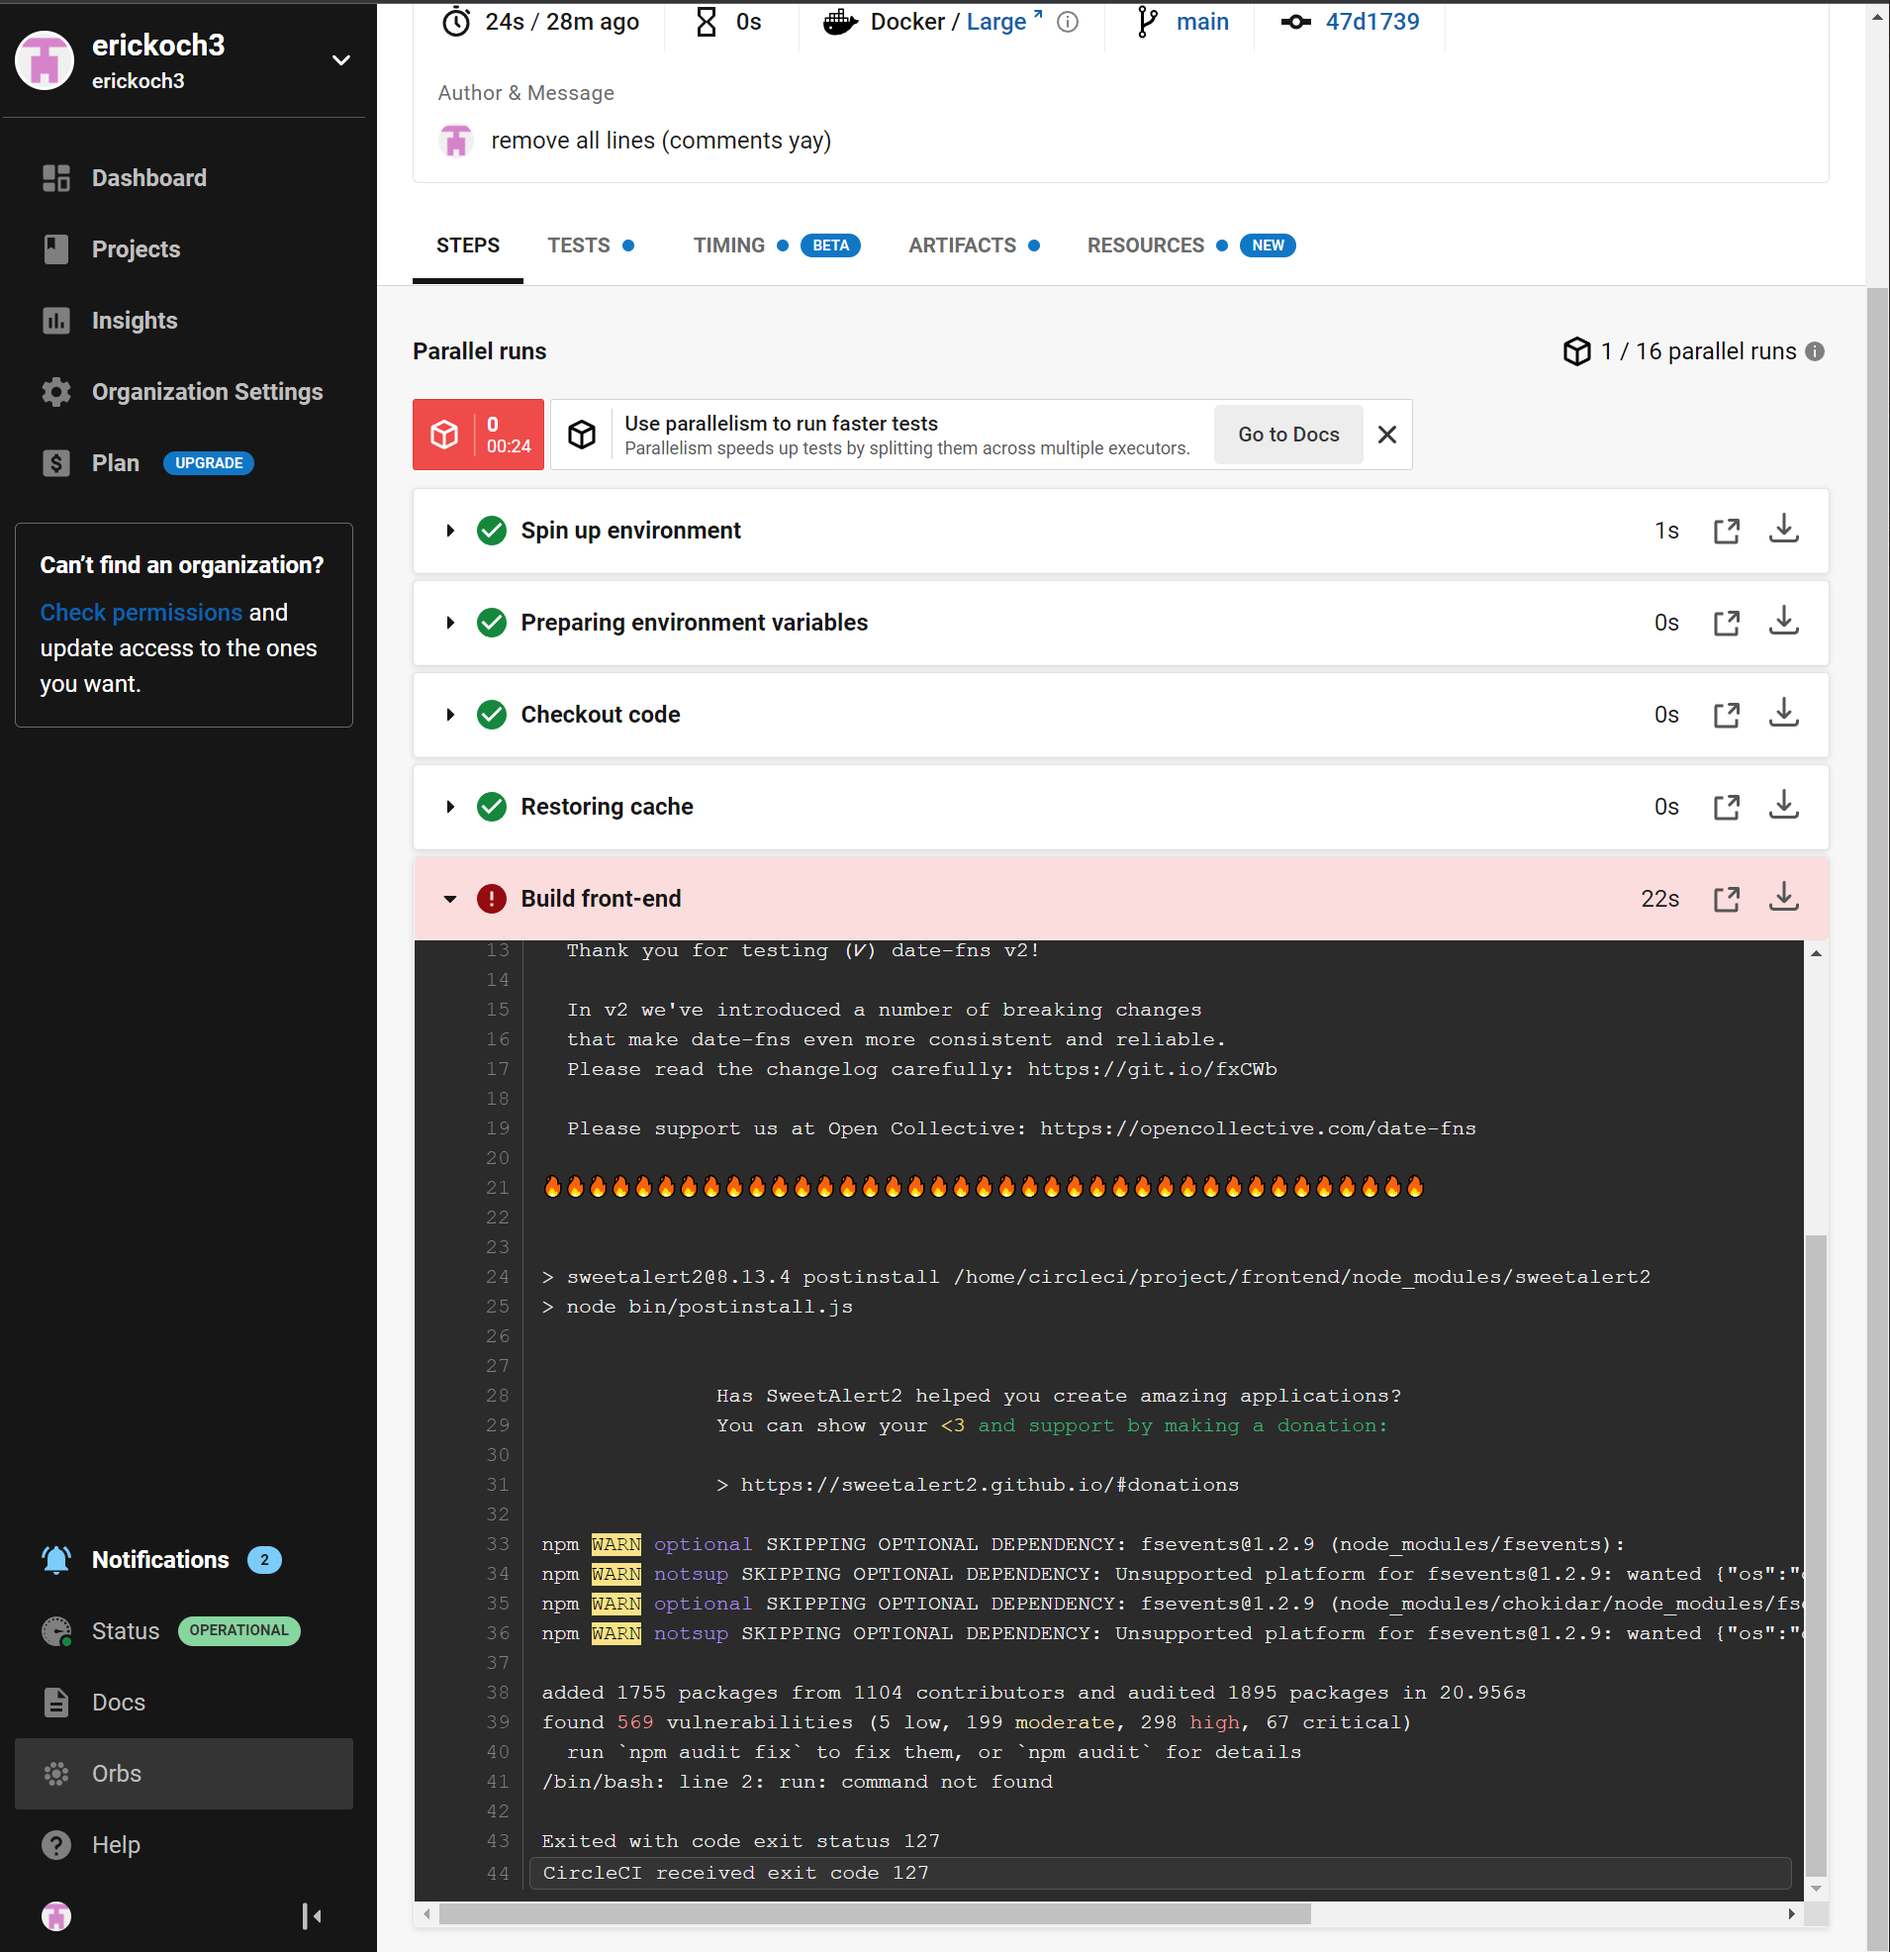
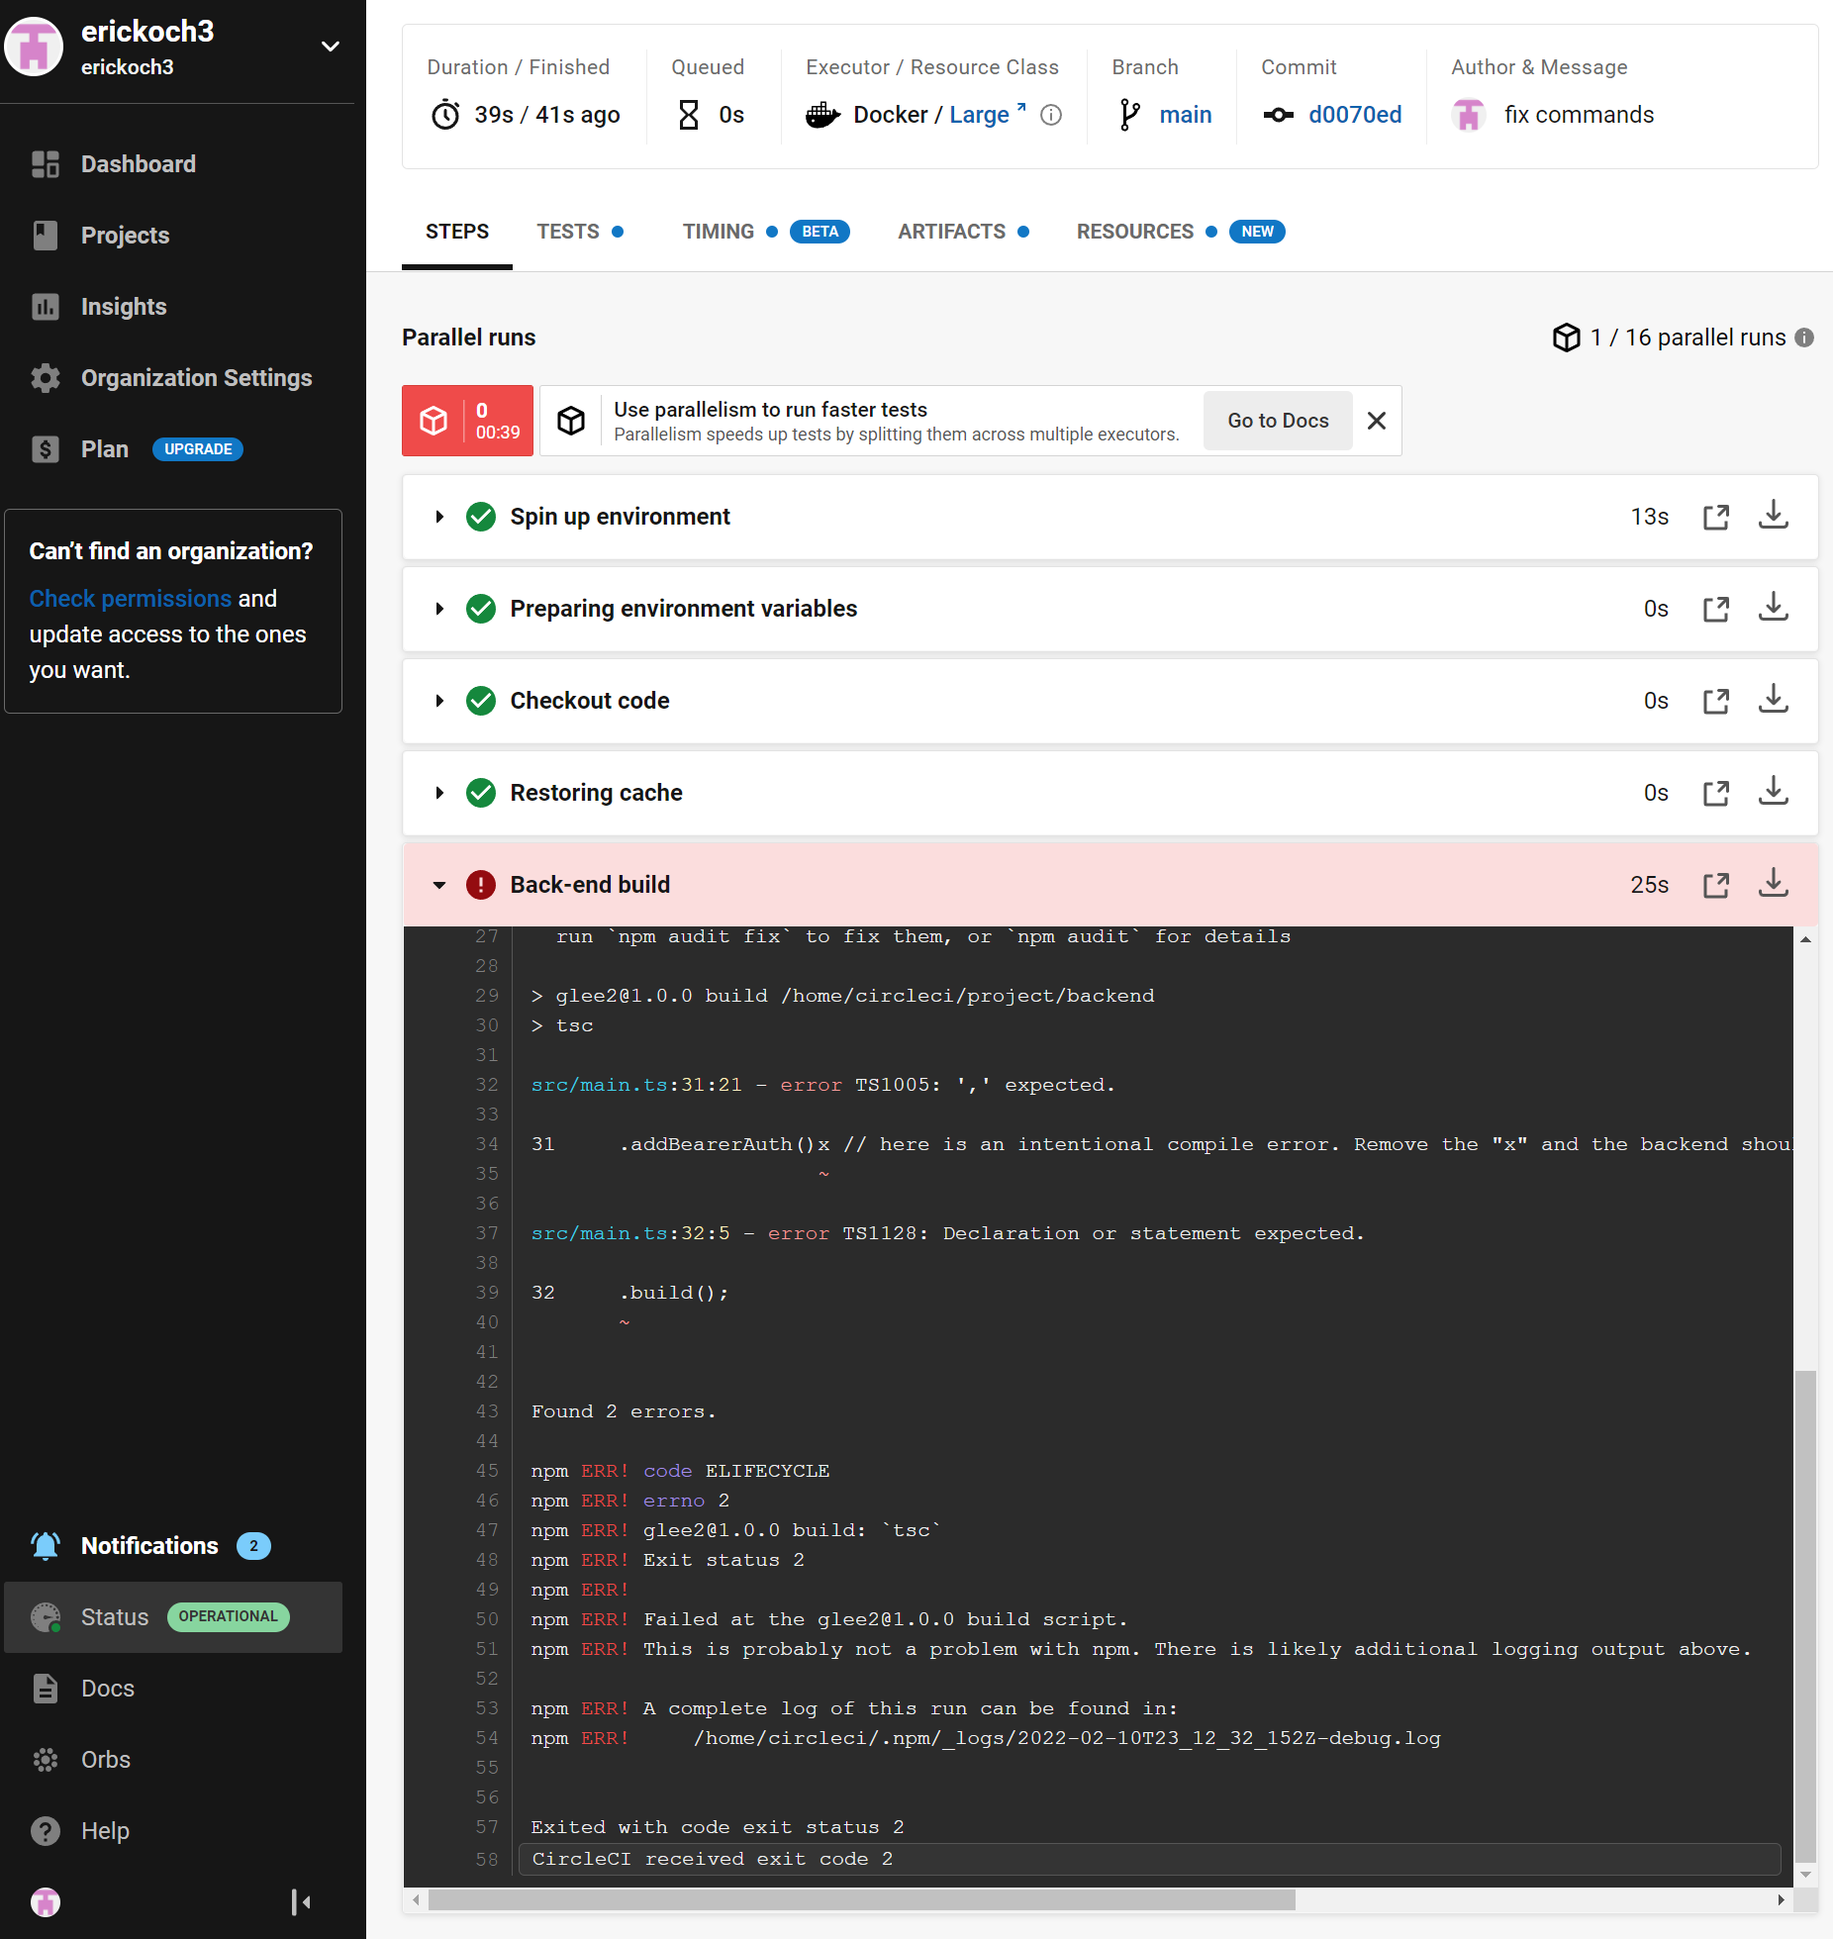
add testing in ci pipeline

diff --git a/backend/src/main.ts b/backend/src/main.ts
@@ -28,7 +28,7 @@ async function bootstrap() {
     .setVersion('1.0')
     .addTag('customTag')
     .setBasePath(apiVersionPrefix)
-    .addBearerAuth()x // here is an intentional compile error. Remove the "x" and the backend should compile.
+    .addBearerAuth() // here is an intentional compile error. Remove the "x" and the backend should compile.
     .build();
   const document = SwaggerModule.createDocument(app, options);
   SwaggerModule.setup(`api/${apiVersionPrefix}`, app, document);
